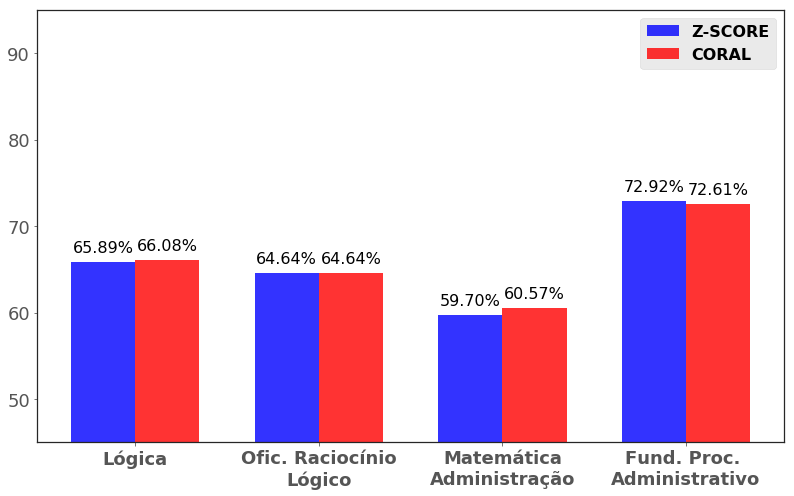
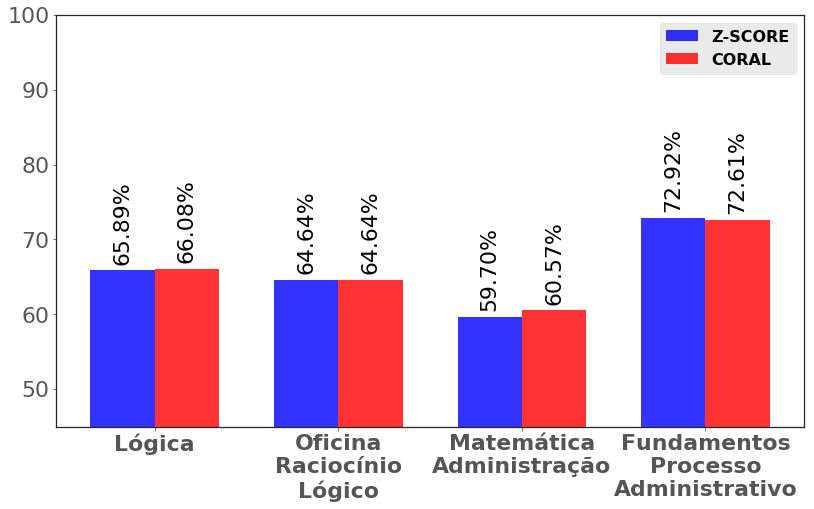
Redimensionamento da fonte dos gráficos

Changed region(s): [[0.0, 0.0, 0.9975, 0.998], [0.7859, 0.2419, 0.9673, 0.4536]]

diff --git a/Dataset/Algoritmos/Experimento final/ml_normalizacao_novo.py b/Dataset/Algoritmos/Experimento final/ml_normalizacao_novo.py
@@ -67,10 +67,10 @@ def autolabel(rects, ax):
     for rect in rects:
         height = rect.get_height()
         label_position = height + (y_height * 0.01)
-        
         ax.text(rect.get_x() + rect.get_width()/2., label_position,
                 '%.2f%%' % height,
-                ha='center', va='bottom', size = tamFonte)
+                ha='center', va='bottom', size = tamFonte + 6, rotation=90)
+        
 
 #Carrega dataset
 df = pd.read_csv('../../dataset_m3_m6.csv', sep=';')
@@ -92,8 +92,8 @@ features = {
             
 #-------------------------------------------------------
 disciplinas = {
-        50404: 'Fund. Proc. \nAdministrativo', 
-        60463: 'Ofic. Raciocínio\nLógico',
+        50404: 'Fundamentos\nProcesso\nAdministrativo', 
+        60463: 'Oficina\nRaciocínio\nLógico',
         60465: 'Matemática\nAdministração',
         60500: 'Lógica'
     }
@@ -253,9 +253,10 @@ ax.patch.set_facecolor('w')
 #ax.grid(True)
 
 axes = plt.gca()
-axes.set_ylim([45,95])
+axes.set_ylim([45,100])
 
-plt.tick_params(axis='y', labelsize = tamFonte + 2)
+plt.tick_params(axis='y', labelsize = tamFonte + 6)
+plt.tick_params(axis='x', labelsize = tamFonte + 6)
 plt.show()
 plt.savefig('gmean_m{}_{}'.format(modulo_s, classif_str))
 
